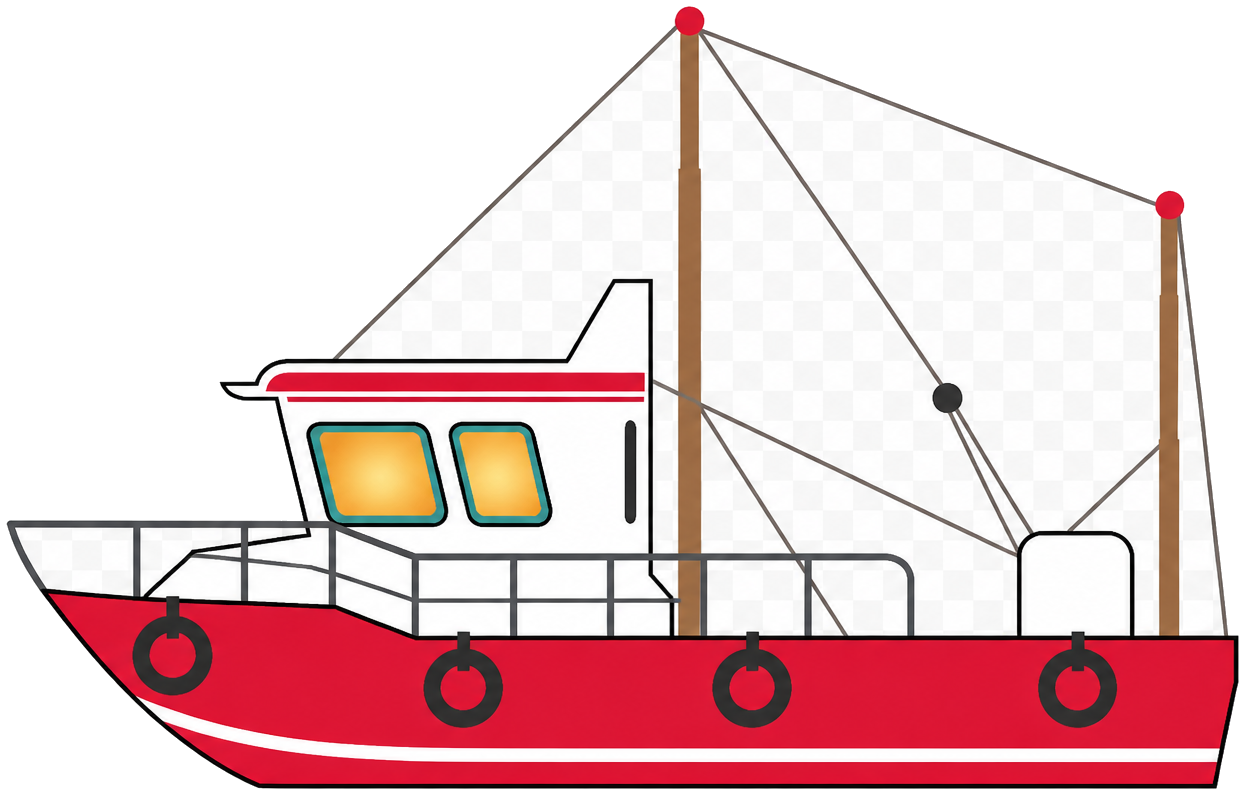
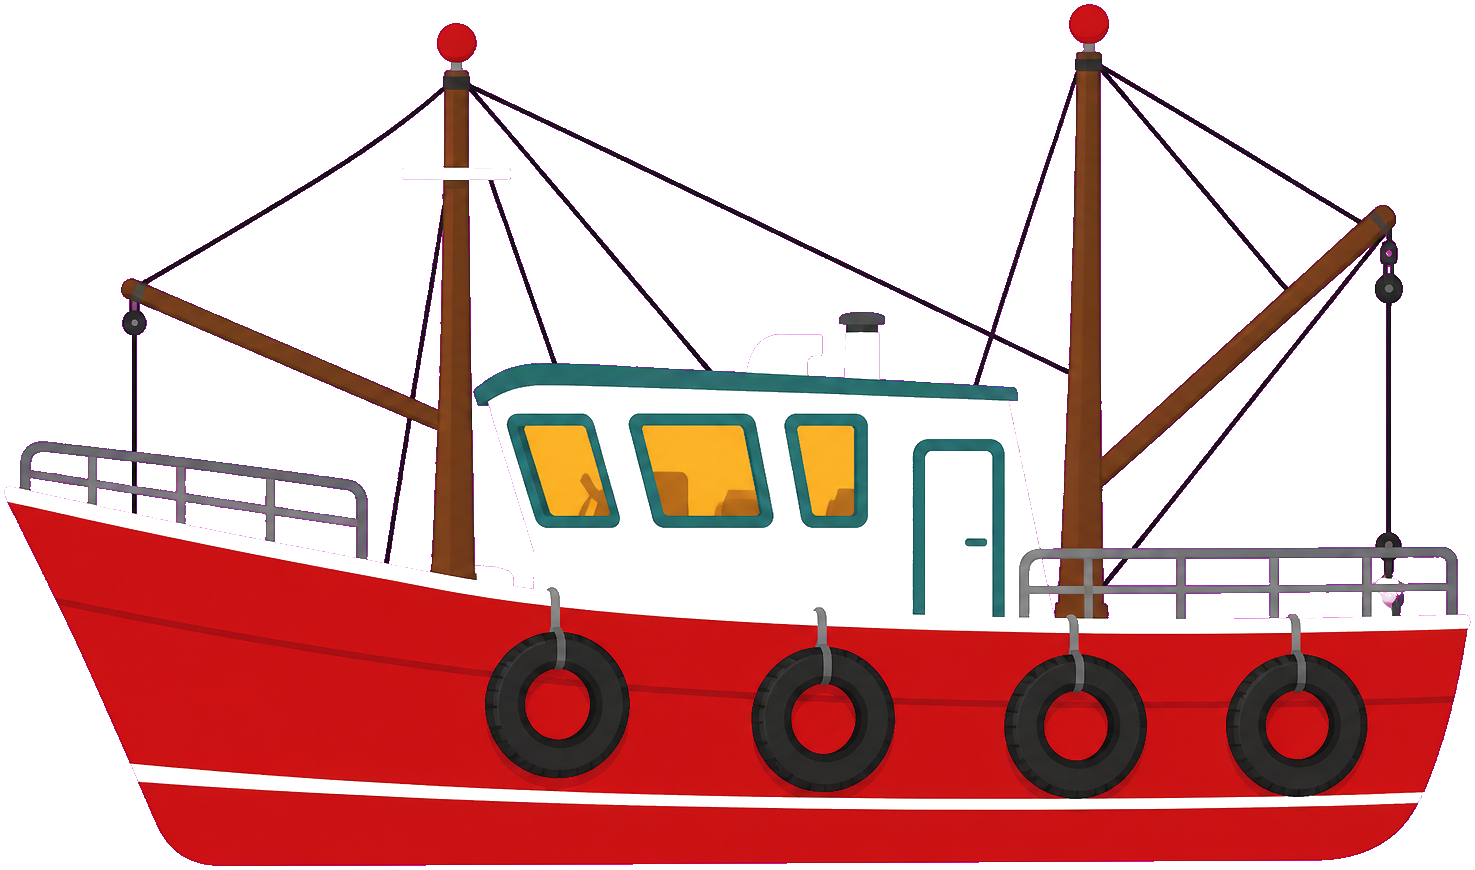
Replace checkerboard hero PNGs with keyed puppet waves and larger boat.

diff --git a/index.html b/index.html
@@ -180,7 +180,7 @@
       50% { transform: translateX(-16px); }
     }
     .boat {
-      transform-origin: 268px 390px;
+      transform-origin: 325px 380px;
       animation: boat-bob 4.5s ease-in-out infinite;
     }
     @keyframes boat-bob {
@@ -500,16 +500,16 @@
       </div>
     </div>
     <div class="lighthouse-scene" aria-hidden="true">
-      <svg viewBox="0 0 360 500" fill="none" xmlns="http://www.w3.org/2000/svg" xmlns:xlink="http://www.w3.org/1999/xlink">
-        <g id="lighthouse-scale" transform="translate(-18,-12) scale(1.14)">
+      <svg viewBox="0 0 440 500" fill="none" xmlns="http://www.w3.org/2000/svg" xmlns:xlink="http://www.w3.org/1999/xlink">
+        <g id="lighthouse-scale" transform="translate(-10,-8) scale(1.08)">
         <!-- sweeping beacon -->
         <g class="beam">
           <path d="M152 78 L320 20 L320 200 Z" fill="url(#beamGrad)" />
         </g>
-        <!-- one coherent sea plane under lighthouse + boat -->
-        <ellipse cx="170" cy="458" rx="160" ry="26" fill="#061018" opacity="0.9" />
-        <path d="M20 438 C70 408 120 420 170 412 C220 404 270 422 320 410 L330 470 L20 470 Z" fill="#0c2436" />
-        <path d="M40 442 C90 424 140 434 190 428 C240 422 280 438 320 430 L320 465 L40 465 Z" fill="#143248" opacity="0.85" />
+        <!-- coherent sea under lighthouse + boat -->
+        <ellipse cx="200" cy="458" rx="210" ry="28" fill="#061018" opacity="0.9" />
+        <path d="M20 438 C80 408 140 420 200 412 C280 400 340 422 400 410 L410 470 L20 470 Z" fill="#0c2436" />
+        <path d="M40 442 C100 424 160 434 220 428 C300 418 350 438 400 430 L400 465 L40 465 Z" fill="#143248" opacity="0.85" />
         <!-- tower base / cliff -->
         <path d="M95 400 L110 320 L210 320 L225 400 Z" fill="#1a2e40" />
         <path d="M100 400 L112 330 L205 330 L218 400 Z" fill="#243a50" />
@@ -537,22 +537,21 @@
         <circle cx="160" cy="30" r="4" fill="#e8a54b" class="lantern-glow" />
         </g>
 
-        <!-- Hero boat + puppet waves as PNG assets (not hand-drawn paths).
-             Scale: waves ~1/3–1/2 lighthouse height; boat clearly readable.
+        <!-- PNG assets: puppet paper waves + trawler (real transparency, large).
              Z-order: back waves → boat → front waves -->
         <g class="wave-prop wave-prop-1">
           <image href="assets/hero-waves-back.png" xlink:href="assets/hero-waves-back.png"
-            x="155" y="245" width="230" height="230" preserveAspectRatio="xMidYMax meet" />
+            x="175" y="250" width="290" height="200" preserveAspectRatio="xMidYMax meet" opacity="0.88" />
         </g>
 
         <g class="boat">
           <image href="assets/hero-boat.png" xlink:href="assets/hero-boat.png"
-            x="175" y="285" width="195" height="140" preserveAspectRatio="xMidYMax meet" />
+            x="195" y="268" width="260" height="175" preserveAspectRatio="xMidYMax meet" />
         </g>
 
         <g class="wave-prop wave-prop-2">
           <image href="assets/hero-waves.png" xlink:href="assets/hero-waves.png"
-            x="162" y="300" width="220" height="220" preserveAspectRatio="xMidYMax meet" />
+            x="165" y="330" width="310" height="185" preserveAspectRatio="xMidYMax meet" />
         </g>
 
         <defs>
